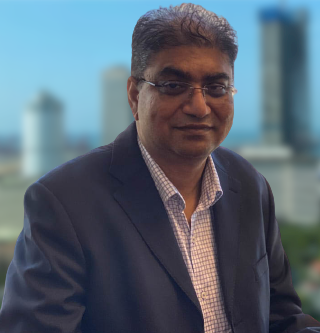
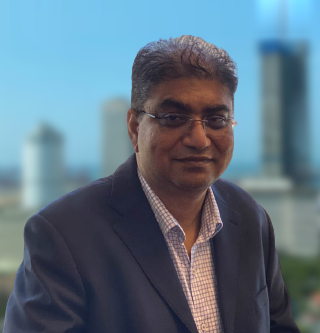
Lower first three leadership portraits to align head height with remaining team cards

diff --git a/src/sanity/lib/queries.ts b/src/sanity/lib/queries.ts
@@ -459,13 +459,18 @@ export async function getSiteContent(): Promise<SanitySiteContent> {
               return {
                 ...m,
                 ...profileOverride,
-                image:
-                  lowerName.includes("hilmy") &&
-                  (!m.image ||
-                    m.image.includes("avatar-placeholder") ||
-                    m.image.toLowerCase().includes(".svg"))
-                    ? "/mohamed-hilmy.png"
-                    : optimizeSanityImageUrl(m.image, 600),
+                image: lowerName.includes("sunil fernando")
+                  ? "/sunil-fernando.png"
+                  : lowerName.includes("manju fernando")
+                  ? "/manju-fernando.png"
+                  : lowerName.includes("dilshan perera")
+                  ? "/dilshan-perera.png"
+                  : lowerName.includes("hilmy") &&
+                    (!m.image ||
+                      m.image.includes("avatar-placeholder") ||
+                      m.image.toLowerCase().includes(".svg"))
+                  ? "/mohamed-hilmy.png"
+                  : optimizeSanityImageUrl(m.image, 600),
               };
             })
           : DEFAULT_SITE_CONTENT.teamMembers,
